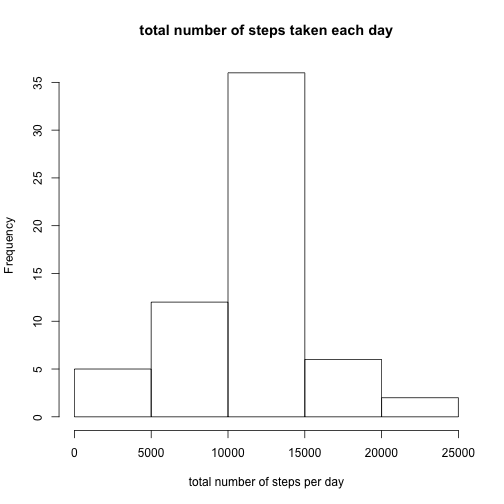
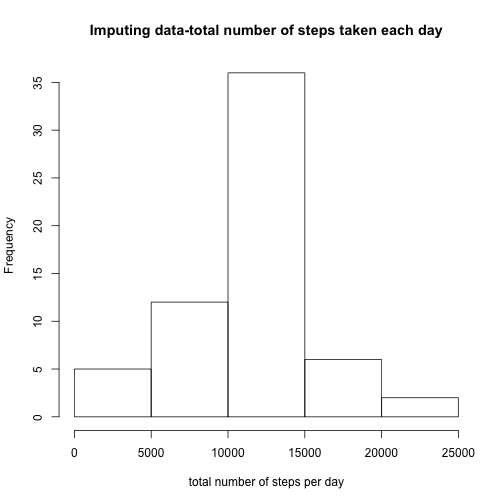
revised figure
change the title for Imputing data histogram

Changed region(s): [[0.1786, 0.0298, 0.8929, 0.0893]]

diff --git a/PA1_template.html b/PA1_template.html
@@ -265,10 +265,10 @@ for(i in 1:l){
   q&lt;-q+1
 }
 activitysum&lt;-data.frame(stepsum=step,Date=datel)
-hist(activitysum$stepsum,xlab=&quot;total number of steps per day&quot;,main=&quot;total number of steps taken each day&quot;)
+hist(activitysum$stepsum,xlab=&quot;total number of steps per day&quot;,main=&quot;Imputing data-total number of steps taken each day&quot;)
 </code></pre>
 
[2 lines of base64/hex data omitted]
 
 <pre><code class="r">mean(activitysum[,1])
 </code></pre>

diff --git a/PA1_template.md b/PA1_template.md
@@ -101,7 +101,7 @@ for(i in 1:l){
   q<-q+1
 }
 activitysum<-data.frame(stepsum=step,Date=datel)
-hist(activitysum$stepsum,xlab="total number of steps per day",main="total number of steps taken each day")
+hist(activitysum$stepsum,xlab="total number of steps per day",main="Imputing data-total number of steps taken each day")
 ```
 
 ![plot of chunk unnamed-chunk-4](figure/unnamed-chunk-4.png) 
